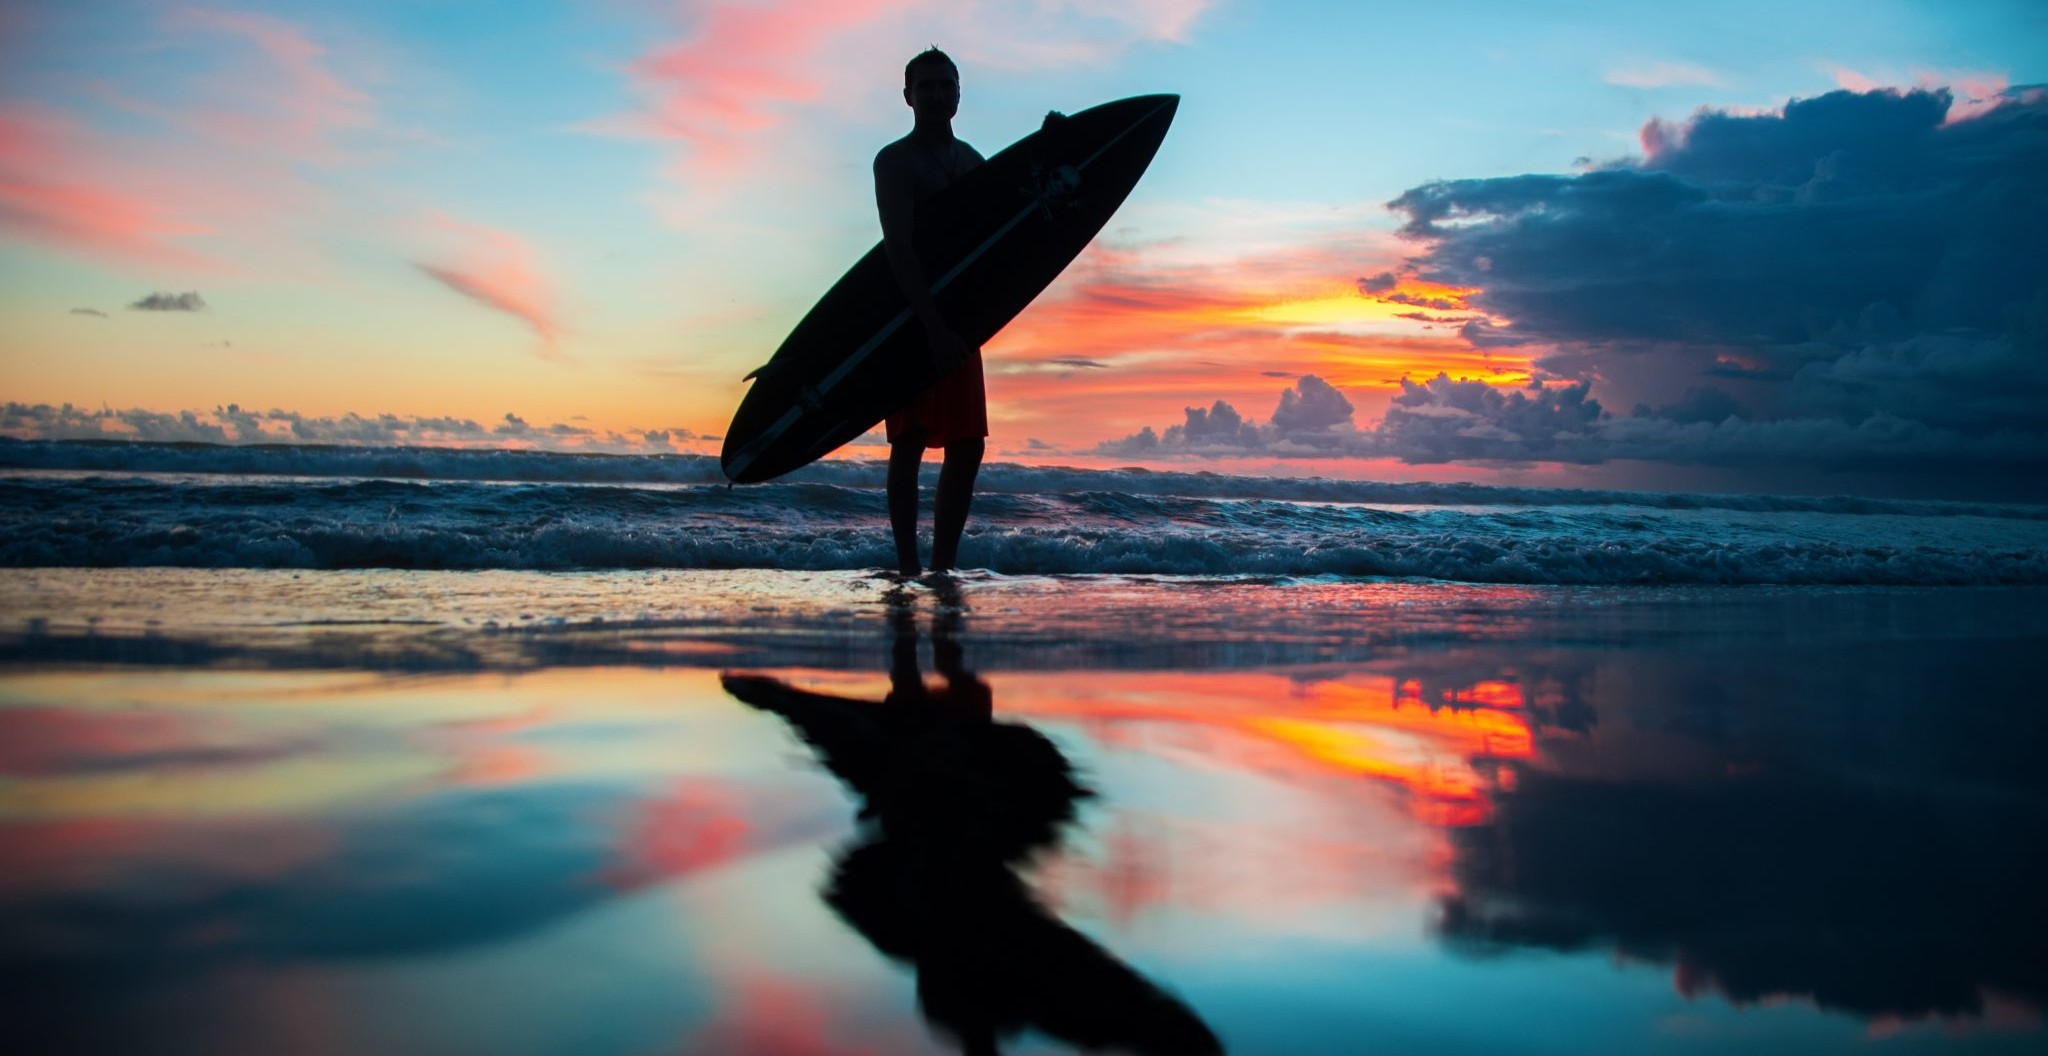
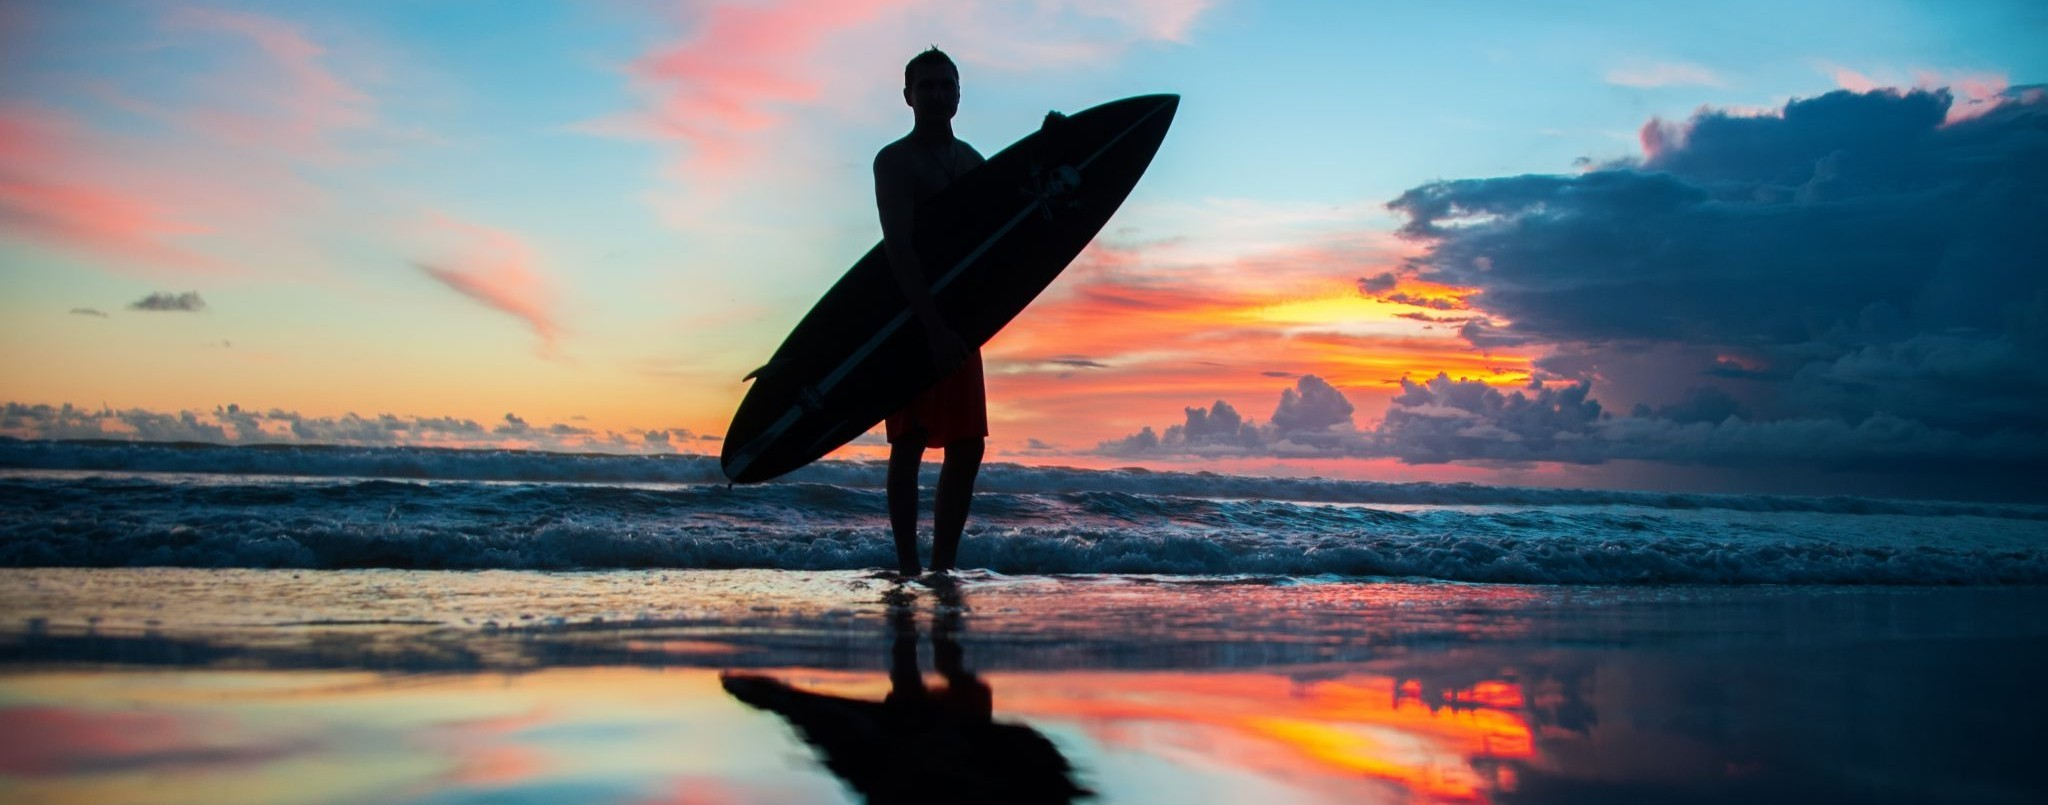
update

diff --git a/src/pages/ShowcaseSection.tsx b/src/pages/ShowcaseSection.tsx
@@ -1,14 +1,42 @@
-import React from "react";
+import React, { useState, useEffect } from "react";
 
 const Banner = () => {
+
+
+    const [isMobile, setIsMobile] = useState(false);
+
+  useEffect(() => {
+    // This code runs only on the client side
+    const handleResize = () => {
+      setIsMobile(window.innerWidth < 768);
+    };
+
+    // Set initial value
+    handleResize();
+
+    // Add event listener
+    window.addEventListener("resize", handleResize);
+
+    // Clean up
+    return () => window.removeEventListener("resize", handleResize);
+  }, []);
+
+  
   return (
     <div
-      className="relative w-full h-[300px] md:h-[400px] lg:h-[500px] flex items-center justify-center text-center text-white bg-cover bg-center"
+      className="relative flex items-center justify-center w-full text-center text-white bg-center bg-cover h-[200px] sm:h-[300px] md:h-[400px] lg:h-[500px]"
       style={{
         backgroundImage: "url('/image/matthew-hume-I9zW-9Qz7tU-unsplash.jpg')",
-        backgroundAttachment: "fixed",
+        // Responsive background sizing
+        backgroundSize: "cover",
+        // Responsive positioning - focus on center for mobile, allow more flexibility for desktop
+        backgroundPosition: isMobile ? "center 30%" : "center center",
+        // Fix background image for desktop only
+        backgroundAttachment: isMobile ? "scroll" : "fixed",
+        backgroundRepeat: "no-repeat",
       }}
     >
+      
       {/* Dark overlay */}
       <div className="absolute inset-0 bg-black/60"></div>
       
